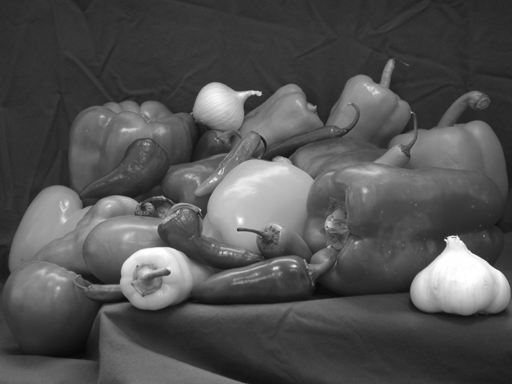
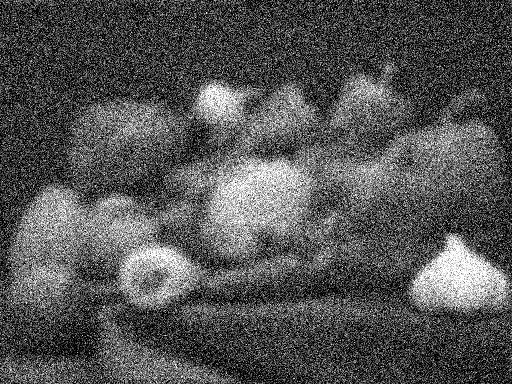
psnr now priniting :checkered_flag:

diff --git a/src/main.m b/src/main.m
@@ -1,4 +1,5 @@
 % read the image
+clear;
 file = 'peppers.png';
 I = im2double(imread(file));
 I = rgb2gray(I);
@@ -13,7 +14,7 @@ blur_filter = fspecial('gaussian', n, sigma_);
 blurred = imfilter(I, blur_filter, 'conv', 'circular');
 figure, imshow(blurred);
 title('Simulate Blur');
-imwrite(I, strcat("../result/", "Blurred_", file));
+imwrite(blurred, strcat("../result/", "Blurred_", file));
 
 % additive noise
 noise_mean = 0.0;
@@ -21,7 +22,7 @@ noise_var = 0.04;
 blurred_noisy = imnoise(blurred, 'gaussian', noise_mean, noise_var);
 figure, imshow(blurred_noisy);
 title('Simulate Blur and Noise');
-imwrite(I, strcat("../result/", "Blurred_n_Noise_", file));
+imwrite(blurred_noisy, strcat("../result/", "Blurred_n_Noise_", file));
 
 % run weiner filter
 output = wiener_filter(I, blurred_noisy, blur_filter, noise_var^(0.5));
@@ -29,18 +30,22 @@ output = wiener_filter(I, blurred_noisy, blur_filter, noise_var^(0.5));
 % printing the corrected image after gamma correction
 figure, imshow(output);
 title('restored image with exact spectrum')
-imwrite(I, strcat("../result/", "Reconstructed_", file));
+imwrite(output, strcat("../result/", "Reconstructed_", file));
 
+% converting to uint8
+I = uint8(imadjust(I) * 255);
+output = uint8(imadjust(output) * 255);
+blurred_noisy = uint8(imadjust(blurred_noisy) * 255);
 
 % calculate mse and psnr
 mse_original = mse(blurred_noisy, I);
 mse_reconstructed = mse(output, I);
-% psnr_original = psnr(blurred_noisy, I);
-% psnr_reconstructed = psnr(output, I);
+psnr_original = psnr(blurred_noisy, I);
+psnr_reconstructed = psnr(output, I);
 fprintf('dim: %d \n', n);
 fprintf('blur_sigma(filter): %f \n', sigma_);
 fprintf('noise_sigma(additive): %f \n', noise_var^0.5);
 fprintf('Original PSNR: %9.7f dB \n', psnr_original);
 fprintf('Final PSNR: %9.7f dB \n', psnr_reconstructed);
-fprintf('Original MSE: %7.2f \n', msee);
+fprintf('Original MSE: %7.2f \n', mse_original);
 fprintf('Final MSE: %7.2f \n', mse_reconstructed);

diff --git a/src/wiener_filter.m b/src/wiener_filter.m
@@ -15,6 +15,5 @@ function out_img = wiener_filter(original_img, img, blur_filter, sigma_)
     
     G = fft2(img);                            % convert the distorted to fft
     FFimg = G.*df;
-    out_img = real(ifft2(FFimg));                 % convert the corrected to time
-    %out_img = mat2gray(out);
+    out_img = imadjust(real(ifft2(FFimg)));   % convert the corrected to time
 end
